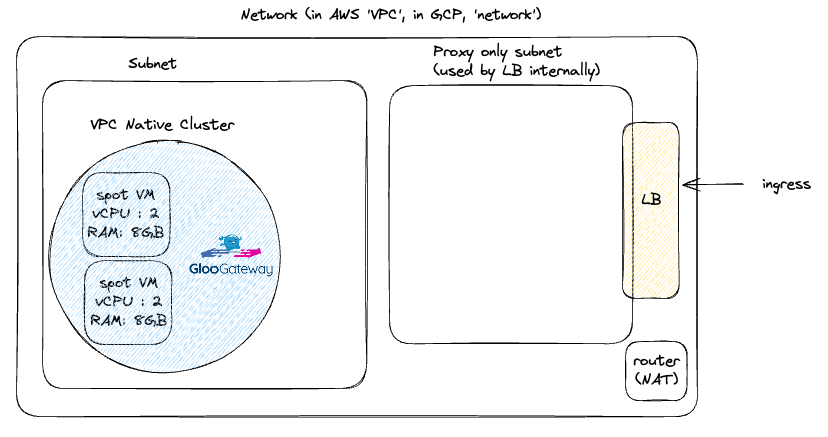
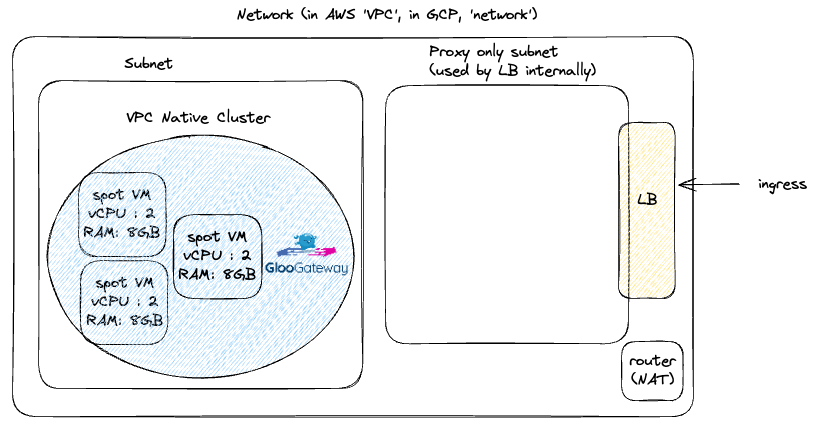
.

diff --git a/content/posts/2024-01-06-cheap_k8s/index.md b/content/posts/2024-01-06-cheap_k8s/index.md
@@ -25,7 +25,7 @@ tags = ["kubernetes", "k8s", "infra", "system_engineering", "korean", "scalabili
 
 3. **개인 컴퓨터를 마스터 노드로 VM을 워커 노드로 구성** -> 로컬 환경에 마스터 노드에 필요한 리소스를 설치하는 것이 탐탁치 않았습니다. 현재 mac m1을 기본 작업용으로 사용하고 있기에 arm용으로 빌드된 바이너리를 하나씩 찾아서 구성하는 과정이 험난할 것으로 예상되었습니다. 로컬 환경에 종속된 특수한 환경을 구성하는 것 자체가 선호되는 일은 아니었습니다. 그렇다고 마스터 노드만을 위한 container를 별도로 띄우는 것도 간편함과는 거리가 있는 방법입니다. 이것도 ROI 문제로 기각.
 
-4. **개인 컴퓨터에 VM 기반 마스터 노드 + 워커 노드 구성** -> 이 방법은 무난하게 동작했고, 관련 도서에서도 vagrant[^3] 스크립트를 통해 이미 구성해놓았기도 해서 편리한 편입니다. 그러나 제 노트북이 발열이 심해져서 사용을 포기했습니다. 쿠버네티스를 구성하기 위한 최소 리소스의 조건이 1 GB RAM, 2 CPU 이므로 노트북의 리소스를 쿠버네티스에 할당하면서 개발 작업을 수행하기에는 사용하기에는 무리가 있었습니다. 기각.
+4. **개인 컴퓨터에 VM 기반 마스터 노드 + 워커 노드 구성** -> 이 방법은 무난하게 동작했고, 관련 도서에서도 vagrant[^3] 스크립트를 통해 이미 구성해놓았기도 해서 편리한 편입니다. 그러나 제 노트북이 발열이 심해져서 사용을 포기했습니다. 쿠버네티스 worker node를 구성하기 위한 최소 리소스의 조건이 1 GB RAM, 2 CPU 이므로 노트북의 리소스를 쿠버네티스에 할당하면서 개발 작업을 수행하기에는 사용하기에는 무리가 있었습니다. 기각.
 
 [^1]: https://termux.dev/en/
 [^2]: https://www.man7.org/linux/man-pages/man2/execve.2.html
@@ -54,6 +54,7 @@ DB 등은 cloud locked-in된 managed service를 이용하게 될텐데 의도치
 2. spot vm을 사용합니다.
     - 가용성(availablity)이 떨어지는 것은 단점이지만, 비용을 절감할 수 있습니다.
     - spot vm shutdown에 대비하여 vm에 의존적인 값이 아닌 gloo를 통해 트래픽을 전달하도록 합니다.
+    - 또한, 3대의 노드를 구성하도록 합니다. 3대를 굴려도 일반 vm 1대를 굴리는 것보다 저렴합니다.
 3. stack driver 를 사용하지 않습니다.[^5]
     - 프로덕션에서는 권장되지 않습니다
 
@@ -70,9 +71,9 @@ disclaimer
 사용량이 늘어나면서 비용이 선형적으로 증가하는 서비스도 존재합니다만 본 문서는 개인이 사용 하는 교육용이므로 고려하지 않겠습니다.
 {{< /box >}}
 
-1일 기준 금액
+-   1일 기준 금액 : 1000원 미만 (954원)
 
-(확인 중)
+<img src="./first_day.png" alt="first day" />
 
 7일 기준 금액
 
